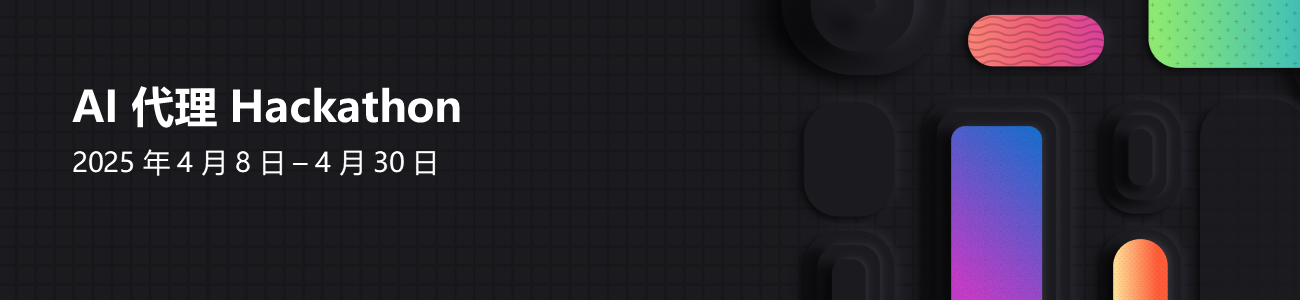
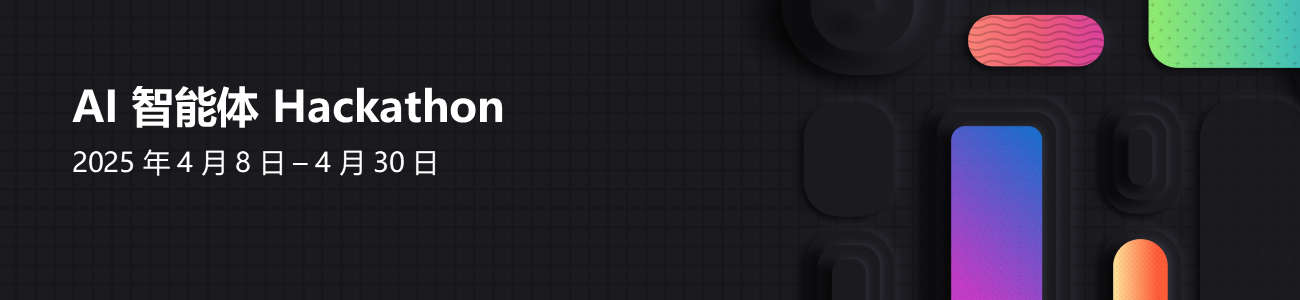
Adjust the call of "Agent".

Changed region(s): [[0.0923, 0.27, 0.4, 0.45]]

diff --git a/docs/zh/index.md b/docs/zh/index.md
@@ -9,11 +9,11 @@ hide:
 
 🛠 构建、创新，#Hacktogether！ 🛠
 
-2025 是 AI 代理的时代！但什么是代理？又如何创建一个代理呢？无论你是经验丰富的开发者还是初学者，这个为期三周的 **免费虚拟 Hackathon** 将是你深入了解AI代理开发的绝佳机会。
+2025 是 AI 智能体的时代！但什么是智能体？又如何创建一个智能体呢？无论你是经验丰富的开发者还是初学者，这个为期三周的 **免费虚拟 Hackathon** 将是你深入了解 AI 智能体开发的绝佳机会。
 
 🔥 观看 **20+ 场专家主导的直播课程**，涵盖 **Semantic Kernel**、**Autogen**、全新 **Azure AI Agents SDK** 和 **Microsoft 365 Agents SDK** 在内的顶尖框架。
 
-💡 实践操作，释放创意，打造强大的 AI 代理——然后提交你的作品，赢取**丰厚奖品！** 💸💡
+💡 实践操作，释放创意，打造强大的 AI 智能体——然后提交你的作品，赢取**丰厚奖品！** 💸💡
 
 !!! tip "**重要日期**"
 
@@ -42,12 +42,12 @@ hide:
 
 以下类别的每个获胜团队将获得奖励。💸
 
-* 最佳综合代理 - 20,000 美元
-* Python 最佳代理 - 5,000 美元
-* C# 最佳代理 - 5,000 美元
-* Java 最佳代理 - 5,000 美元
-* JavaScript/TypeScript 最佳代理 - 5,000 美元
-* 最佳 Copilot 代理（使用 Microsoft Copilot Studio 或 Microsoft 365 Agents SDK） - 5,000 美元
+* 最佳综合智能体 - 20,000 美元
+* Python 最佳智能体 - 5,000 美元
+* C# 最佳智能体 - 5,000 美元
+* Java 最佳智能体 - 5,000 美元
+* JavaScript/TypeScript 最佳智能体 - 5,000 美元
+* 最佳 Copilot 智能体（使用 Microsoft Copilot Studio 或 Microsoft 365 Agents SDK） - 5,000 美元
 * 最佳 Azure AI Agent Service 使用 - 5,000 美元
 
 每个团队只能在一个类别中获奖。  
@@ -59,7 +59,7 @@ hide:
 
 | 日期/时间 | 主题 | 专题 | 资源 |
 | --------- | ---- | ---- | ---- |
-| 4 月 8 日，时间待定 | 欢迎参加 AI 代理 Hackathon | 所有 | - |
+| 4 月 8 日，时间待定 | 欢迎参加 AI 智能体 Hackathon | 所有 | - |
 | 4 月 15 日，时间待定 | 使用 Azure AI Agent Service 作为您的软件开发流程 | 所有 | - |
 
 ### 其他语言
@@ -83,6 +83,6 @@ hide:
 
 [访问资源！](https://aka.ms/AIAgent_Skilling)
 
-加入 [TheSource EHub](https://aka.ms/thesource/ai_agents)，探索精选资源，包括培训、直播、代码库、技术指南、博客、下载、认证等，每月更新。其 AI 代理部分提供创建 AI 代理的关键资源，其他部分则涵盖 AI、开发工具和编程语言的见解。
+加入 [TheSource EHub](https://aka.ms/thesource/ai_agents)，探索精选资源，包括培训、直播、代码库、技术指南、博客、下载、认证等，每月更新。其 AI 智能体部分提供创建 AI 智能体的关键资源，其他部分则涵盖 AI、开发工具和编程语言的见解。
 
 您也可以在我们的 [讨论论坛](https://github.com/microsoft/AI_Agents_Hackathon/discussions) 中提问，或在 [Discord 频道](https://discord.gg/ZkEG5GYfGU) 与其他参与者交流。
